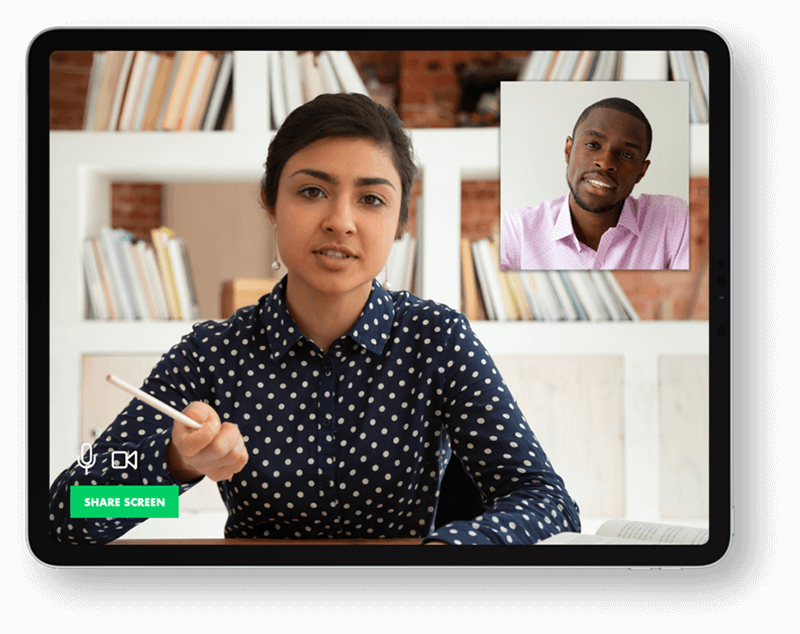
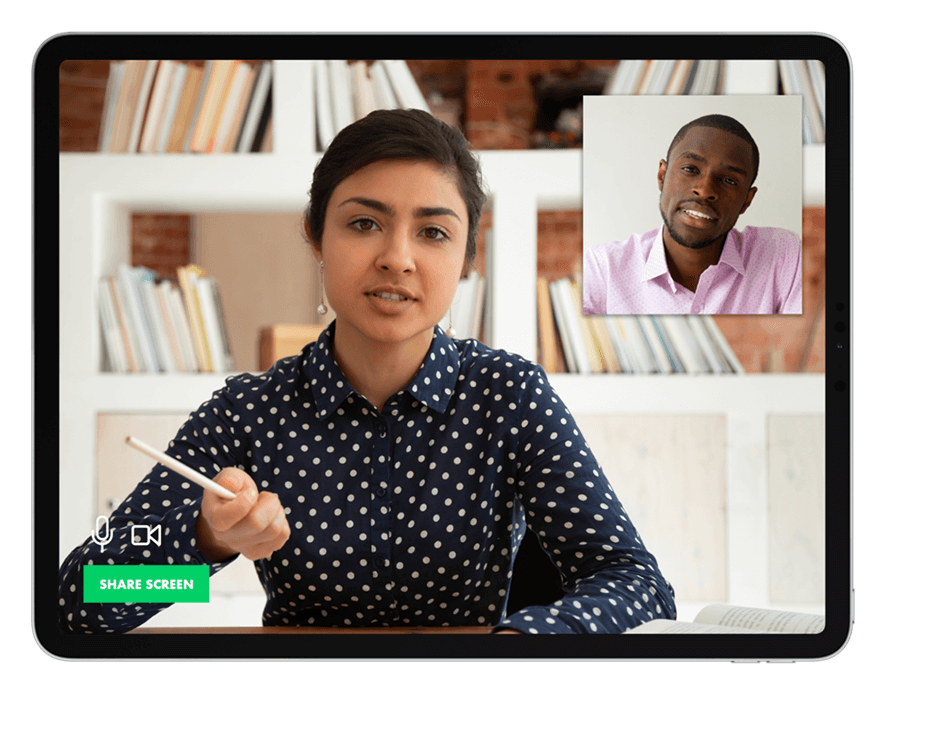
AWE-138: Updating the PA CareerLink images and spacing

diff --git a/src/assets/scss/03_organism/_hero.scss b/src/assets/scss/03_organism/_hero.scss
@@ -110,7 +110,7 @@
             .o-hero__title {
                 padding-top: 60px;
 
-                @include breakpoints("sm-tablet") {
+                @include breakpoints("tablet") {
                     padding-bottom: 125px;
                     padding-top: 100px;
                 }
@@ -126,7 +126,7 @@
 
             .o-hero__image {
                 @include breakpoints("tablet") {
-                    margin-top: 80px;
+                    margin-top: 40px;
                 }
             }
         }
